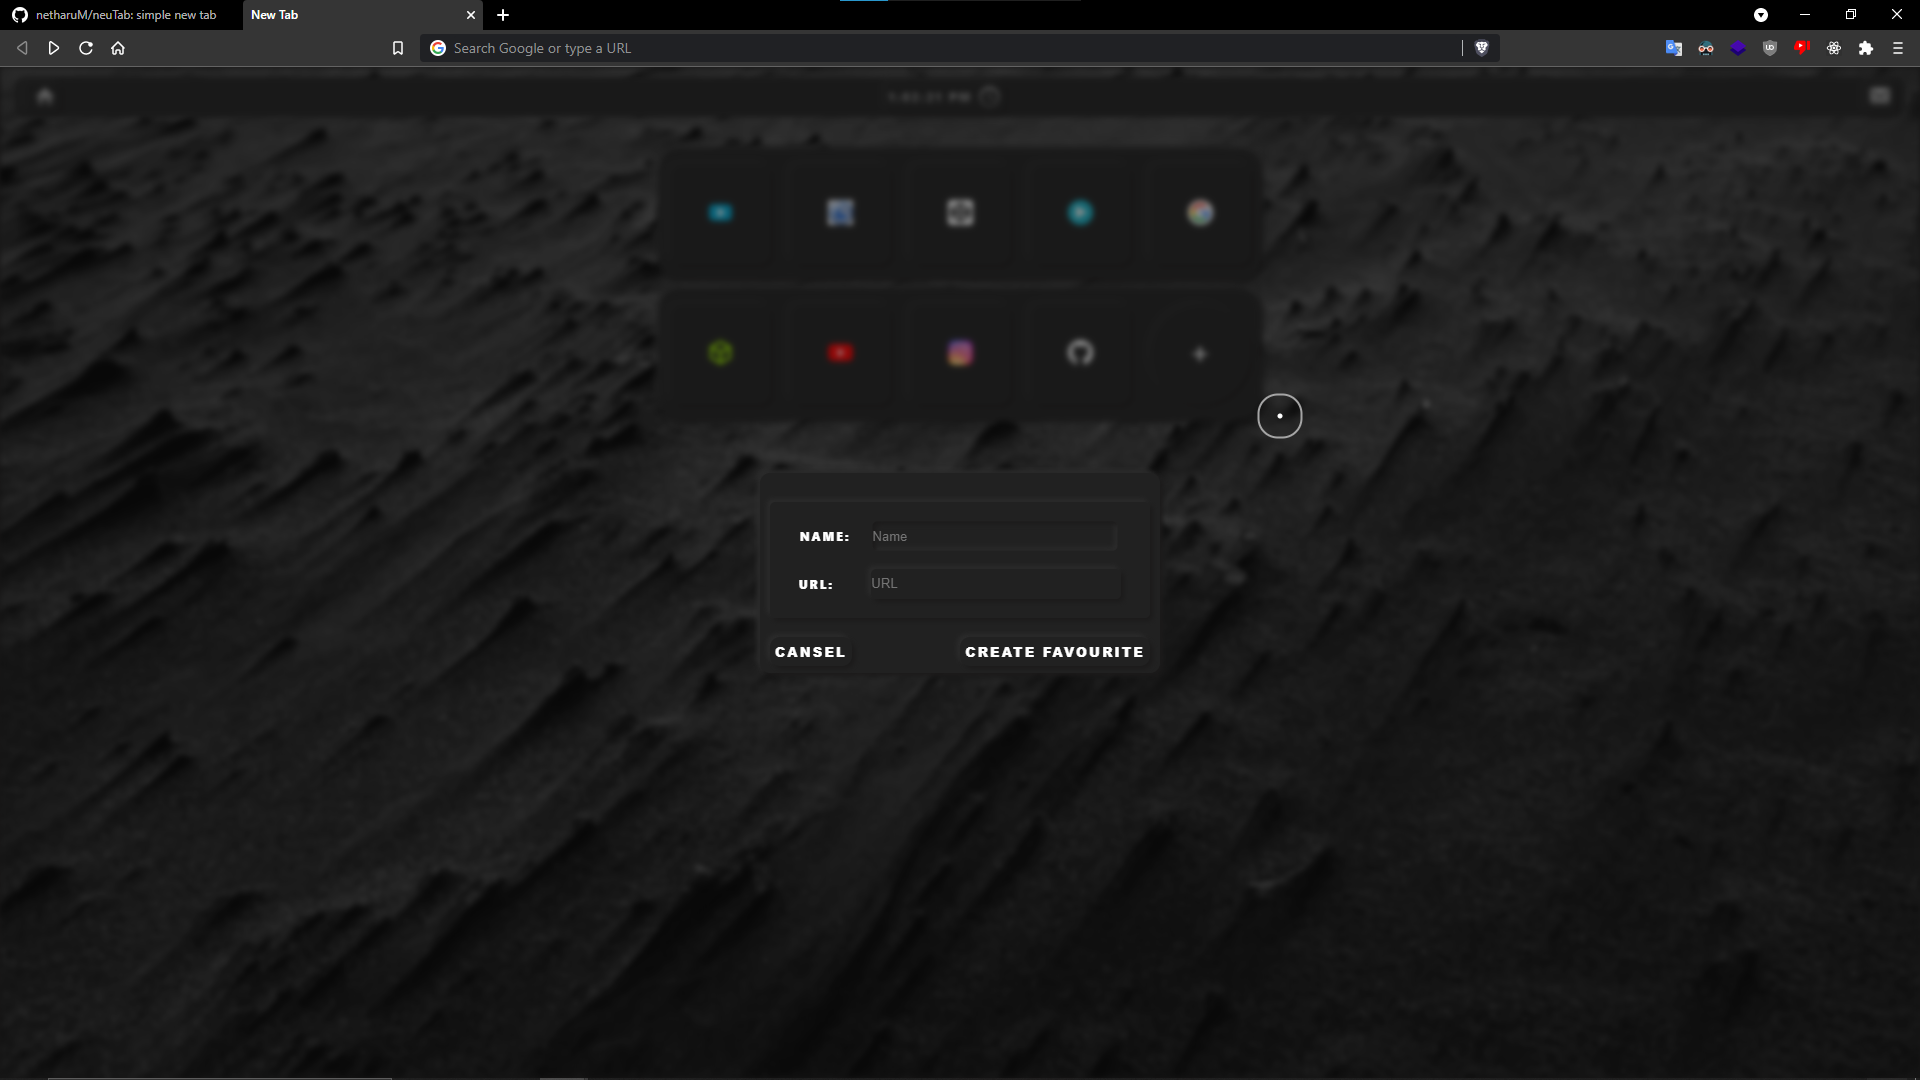
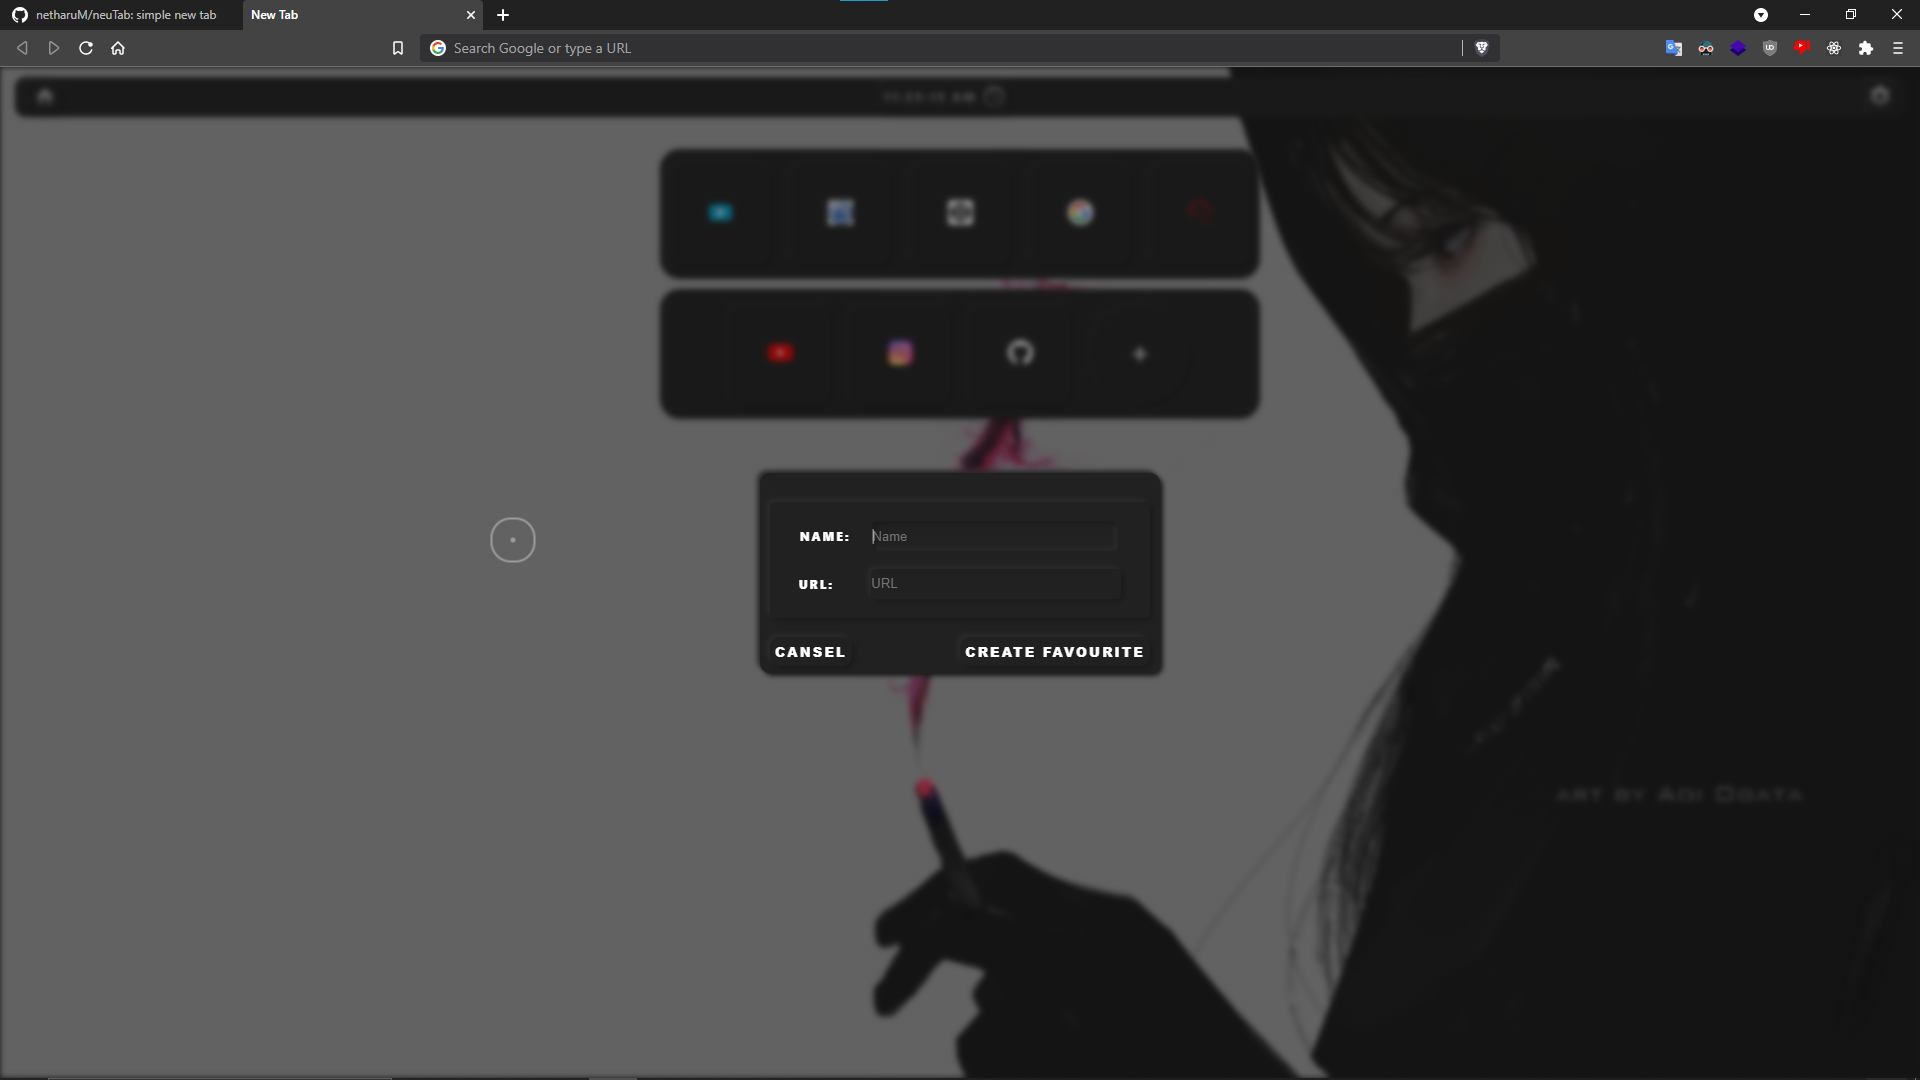
few changes

diff --git a/public/index.html b/public/index.html
@@ -14,7 +14,9 @@
     <link rel="stylesheet" href="./themes/dark.css">
 </head>
 <body>
-    <div class="background" id="background"></div>
+    <div style="position: absolute;top: 0;left: 0;" class="backgroundContainer" id="backgroundContainer">
+        <div class="background" id="background"></div>
+    </div>
     <div class="blocker"></div>
 
     <div class="contextMenuBlocker"></div>

diff --git a/public/themes/dark.css b/public/themes/dark.css
@@ -194,6 +194,7 @@ input#url:focus {
 
 .cursor {
     background-color: white;
+    mix-blend-mode: difference;
 }
 .cursor-lazy {
     border-style: solid;
